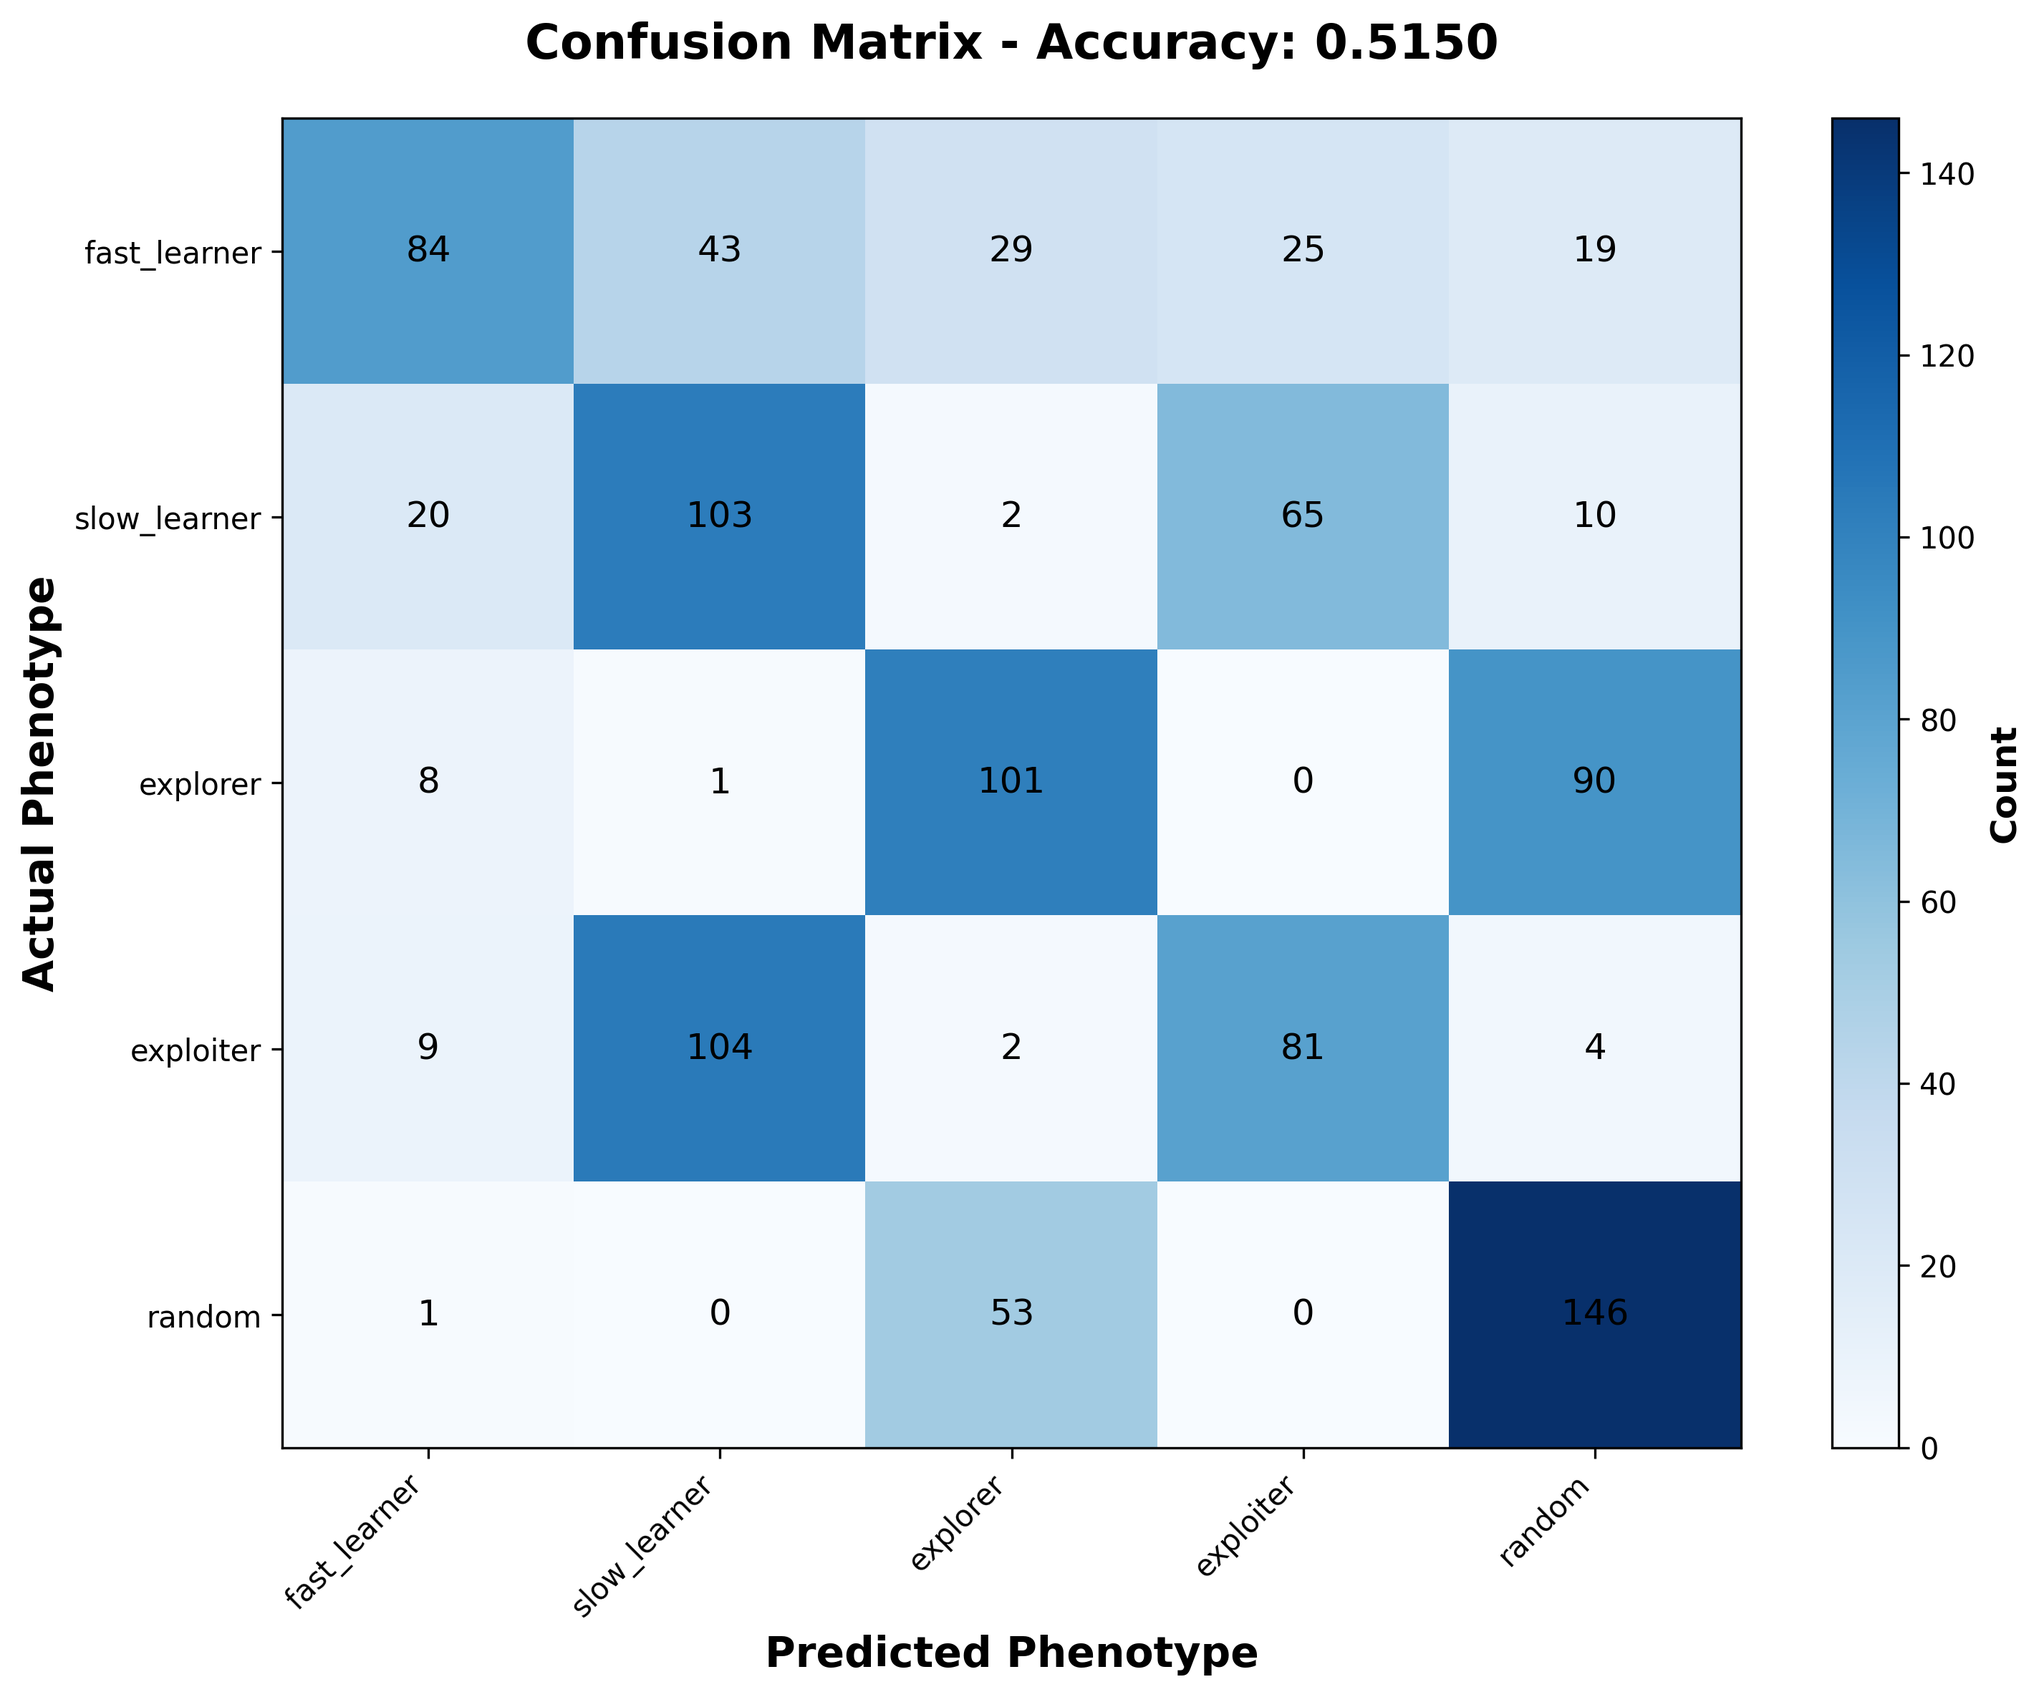
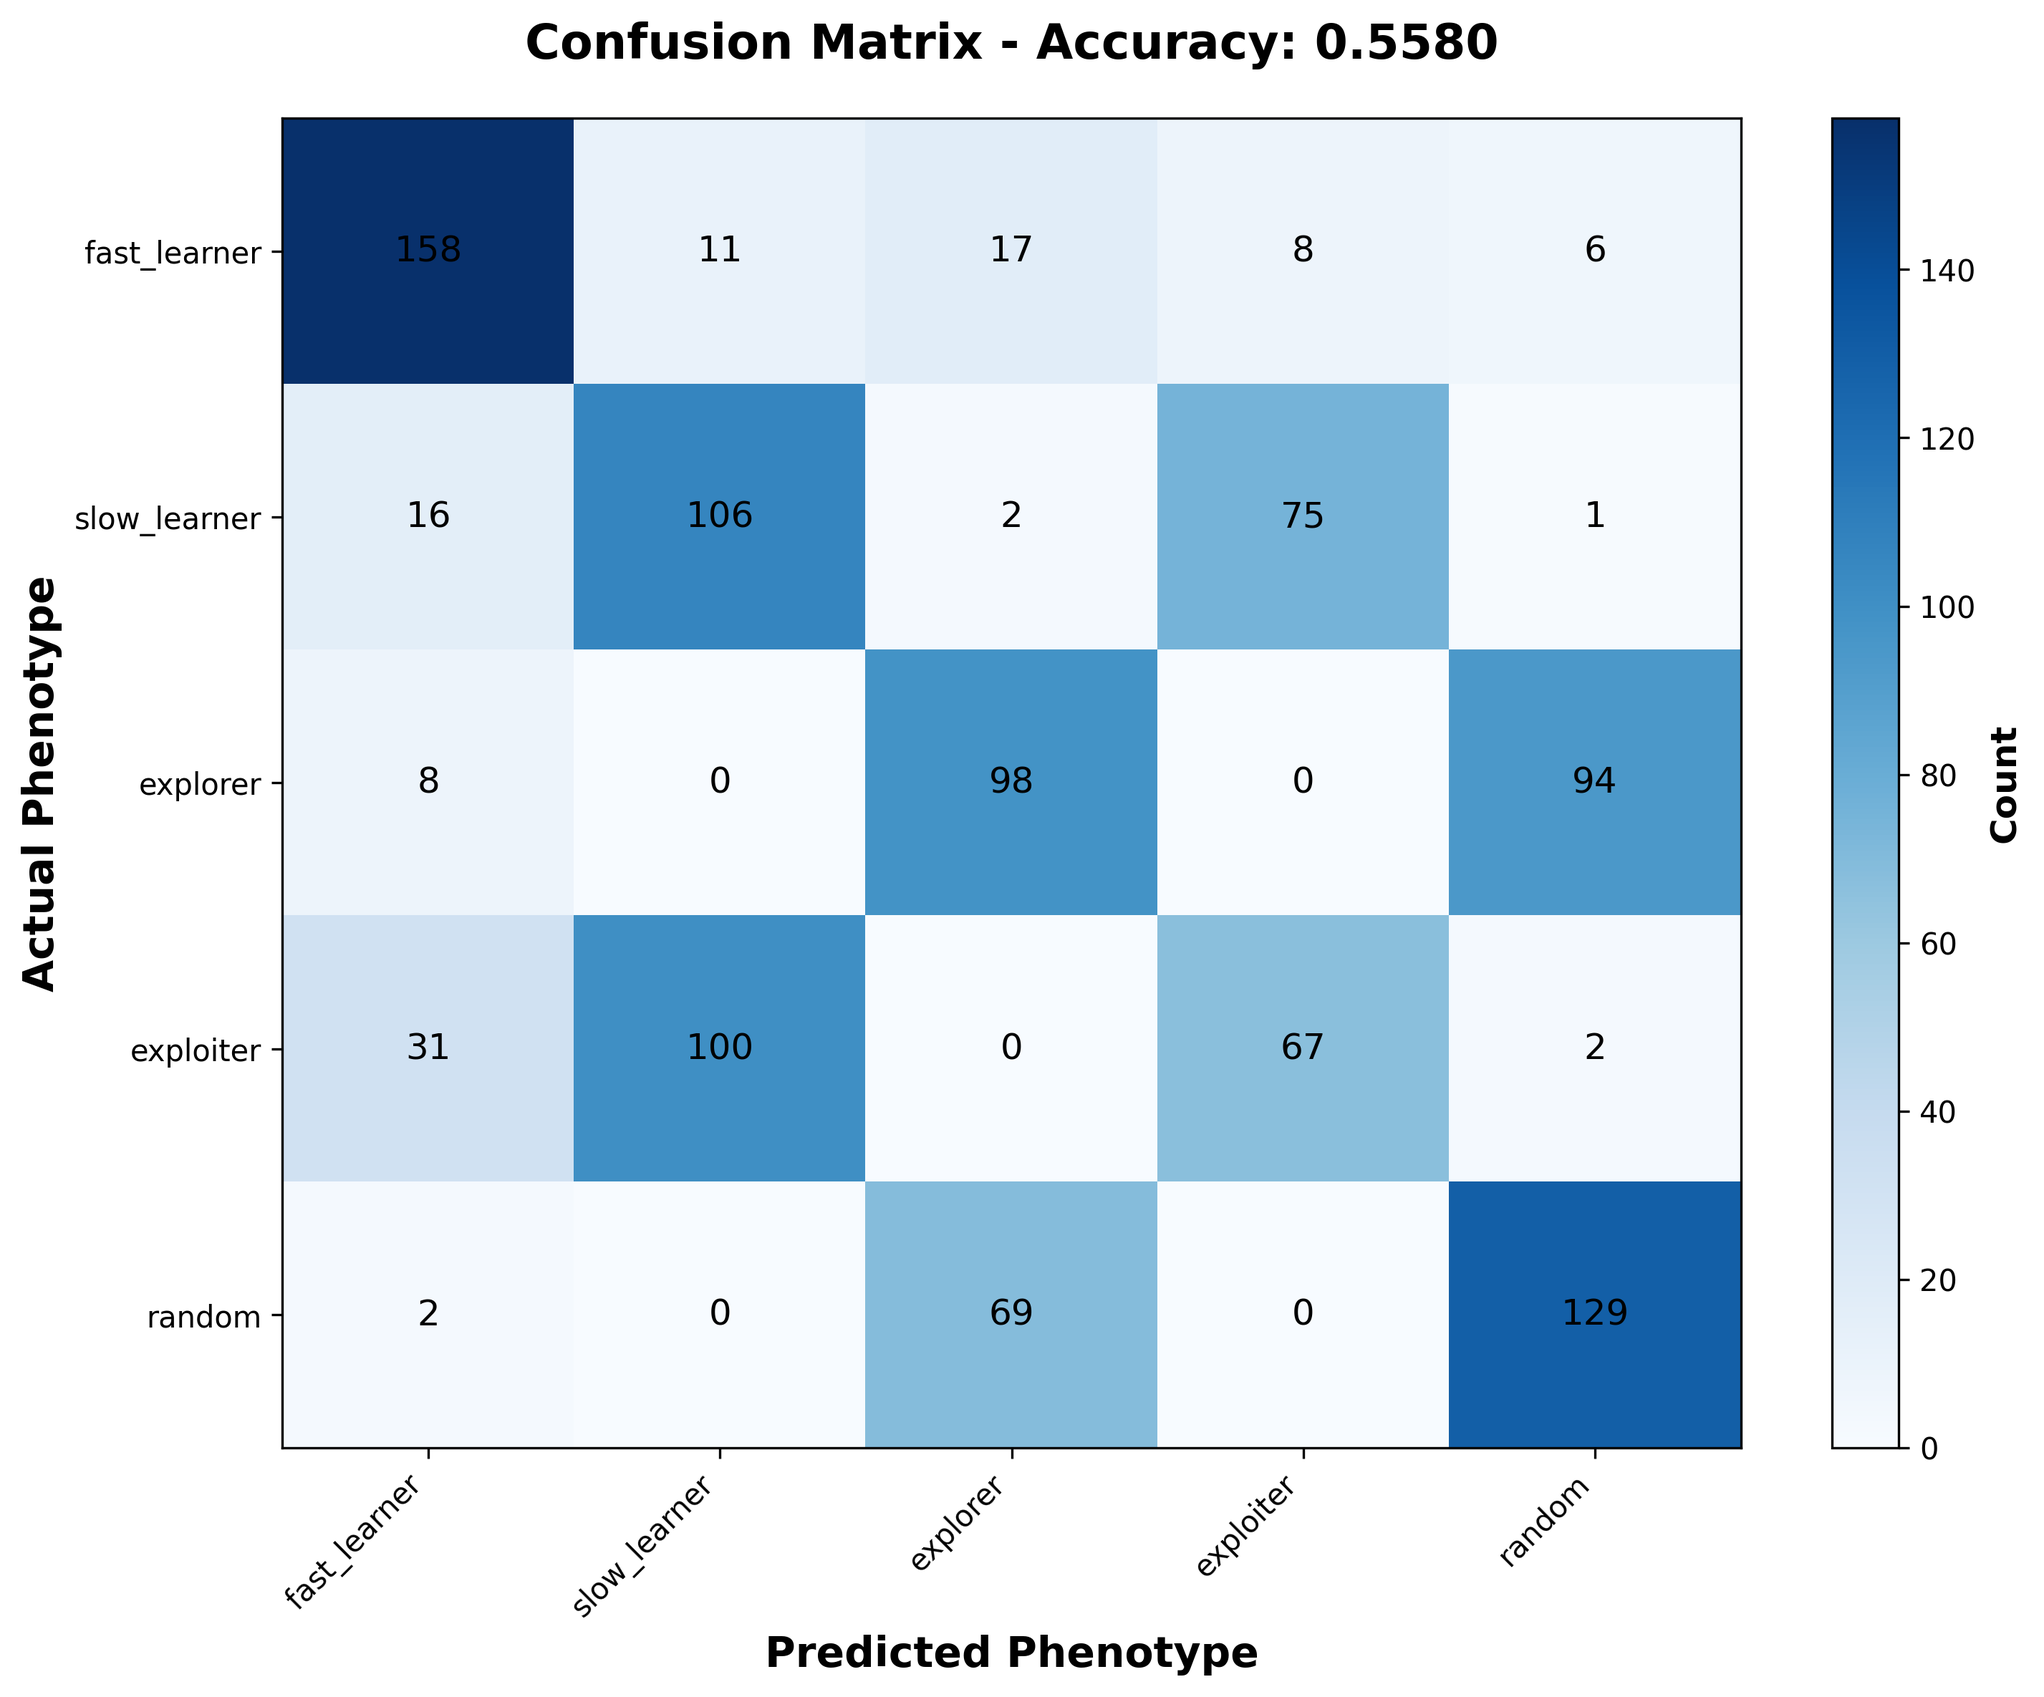
Add enhanced bandit features and update classification scripts to use enhanced datasets

diff --git a/bandit_enhanced.py b/bandit_enhanced.py
@@ -1,0 +1,309 @@
+import numpy as np
+import pandas as pd
+import os
+
+class TwoArmedBandit:
+    def __init__(self, p=[0.7, 0.3]):
+        if len(p) != 2:
+            raise ValueError("Reward probability list 'p' must contain exactly two values.")
+        self.p = np.array(p)
+
+    def pull(self, action):
+        return np.random.binomial(1, self.p[action])
+
+class QLearningAgent:
+    def __init__(self, alpha, temperature, n_actions=2):
+        self.alpha = alpha
+        self.temperature = temperature
+        self.n_actions = n_actions
+        self.Q = np.zeros(n_actions)
+        
+        # Enhanced tracking for behavioral analysis
+        self.action_history = []
+        self.reward_history = []
+        self.consecutive_actions = 0
+        self.last_action = None
+        self.total_rewards = 0
+        self.action_counts = np.zeros(n_actions)
+        self.successful_pulls = np.zeros(n_actions)
+        self.trial_count = 0
+        
+        # Advanced behavioral metrics
+        self.action_switches = 0
+        self.reward_streak = 0
+        self.loss_streak = 0
+        self.max_reward_streak = 0
+        self.max_loss_streak = 0
+        self.early_performance = 0  # First 10 trials
+        self.mid_performance = 0    # Trials 10-50
+        self.late_performance = 0   # Last 10 trials
+        self.performance_trend = 0
+        self.exploration_rate = 0
+        self.exploitation_rate = 0
+
+    def choose_action(self):
+        if self.temperature == 0:
+            best_actions = np.where(self.Q == np.max(self.Q))[0]
+            return np.random.choice(best_actions)
+        
+        q_stabilized = self.Q - np.max(self.Q)
+        exp_q = np.exp(q_stabilized / self.temperature)
+        probs = exp_q / np.sum(exp_q)
+        
+        return np.random.choice(self.n_actions, p=probs)
+
+    def update(self, action, reward):
+        old_q_value = self.Q[action]
+        td_error = reward - old_q_value
+        self.Q[action] = old_q_value + self.alpha * td_error
+        
+        # Update basic tracking
+        self.action_history.append(action)
+        self.reward_history.append(reward)
+        self.total_rewards += reward
+        self.action_counts[action] += 1
+        self.successful_pulls[action] += reward
+        self.trial_count += 1
+        
+        # Track consecutive actions
+        if self.last_action == action:
+            self.consecutive_actions += 1
+        else:
+            self.consecutive_actions = 1
+            self.action_switches += 1
+        self.last_action = action
+        
+        # Track reward streaks
+        if reward == 1:
+            self.reward_streak += 1
+            self.loss_streak = 0
+            self.max_reward_streak = max(self.max_reward_streak, self.reward_streak)
+        else:
+            self.loss_streak += 1
+            self.reward_streak = 0
+            self.max_loss_streak = max(self.max_loss_streak, self.loss_streak)
+        
+        # Update performance phases
+        if self.trial_count == 10:
+            self.early_performance = np.mean(self.reward_history[:10])
+        elif self.trial_count == 50:
+            self.mid_performance = np.mean(self.reward_history[10:50])
+        elif self.trial_count >= 140:
+            self.late_performance = np.mean(self.reward_history[-10:])
+            if self.trial_count >= 50:
+                self.performance_trend = self.late_performance - self.early_performance
+        
+        # Calculate exploration vs exploitation
+        if self.trial_count >= 20:
+            recent_actions = self.action_history[-20:]
+            unique_actions = len(set(recent_actions))
+            self.exploration_rate = unique_actions / 2.0  # Normalized to [0,1]
+            self.exploitation_rate = 1 - self.exploration_rate
+        
+        return td_error
+
+    def get_internal_states(self, td_error):
+        return {
+            'q_value_0': self.Q[0],
+            'q_value_1': self.Q[1],
+            'td_error': td_error,
+        }
+    
+    def get_enhanced_observable_features(self):
+        """Get sophisticated observable features for classification"""
+        if self.trial_count == 0:
+            return {}
+        
+        # Basic ratios
+        action_0_ratio = self.action_counts[0] / max(1, self.trial_count)
+        action_1_ratio = self.action_counts[1] / max(1, self.trial_count)
+        reward_rate = self.total_rewards / max(1, self.trial_count)
+        
+        # Success rates per action
+        action_0_success_rate = self.successful_pulls[0] / max(1, self.action_counts[0])
+        action_1_success_rate = self.successful_pulls[1] / max(1, self.action_counts[1])
+        
+        # Behavioral consistency
+        consecutive_action_ratio = self.consecutive_actions / max(1, self.trial_count)
+        action_switch_rate = self.action_switches / max(1, self.trial_count - 1)
+        action_consistency = 1 - action_switch_rate
+        
+        # Streak metrics
+        reward_streak_ratio = self.reward_streak / max(1, self.trial_count)
+        max_reward_streak_ratio = self.max_reward_streak / max(1, self.trial_count)
+        max_loss_streak_ratio = self.max_loss_streak / max(1, self.trial_count)
+        
+        # Performance phases
+        early_perf = self.early_performance if self.trial_count >= 10 else 0
+        mid_perf = self.mid_performance if self.trial_count >= 50 else 0
+        late_perf = self.late_performance if self.trial_count >= 140 else 0
+        perf_trend = self.performance_trend if self.trial_count >= 140 else 0
+        
+        # Exploration metrics
+        exploration_rate = self.exploration_rate if self.trial_count >= 20 else 0
+        exploitation_rate = self.exploitation_rate if self.trial_count >= 20 else 0
+        
+        # Advanced behavioral patterns
+        if self.trial_count >= 30:
+            recent_rewards = self.reward_history[-30:]
+            recent_actions = self.action_history[-30:]
+            
+            # Reward volatility
+            reward_volatility = np.std(recent_rewards) if len(recent_rewards) > 1 else 0
+            
+            # Action-reward correlation
+            if len(recent_actions) > 1:
+                action_reward_corr = np.corrcoef(recent_actions, recent_rewards)[0, 1]
+                action_reward_corr = 0 if np.isnan(action_reward_corr) else action_reward_corr
+            else:
+                action_reward_corr = 0
+            
+            # Learning curve analysis
+            first_third = np.mean(recent_rewards[:10]) if len(recent_rewards) >= 10 else 0
+            last_third = np.mean(recent_rewards[-10:]) if len(recent_rewards) >= 10 else 0
+            learning_improvement = last_third - first_third
+        else:
+            reward_volatility = 0
+            action_reward_corr = 0
+            learning_improvement = 0
+        
+        return {
+            # Basic metrics
+            'action_0_ratio': action_0_ratio,
+            'action_1_ratio': action_1_ratio,
+            'reward_rate': reward_rate,
+            'action_0_success_rate': action_0_success_rate,
+            'action_1_success_rate': action_1_success_rate,
+            
+            # Behavioral consistency
+            'consecutive_action_ratio': consecutive_action_ratio,
+            'action_switch_rate': action_switch_rate,
+            'action_consistency': action_consistency,
+            
+            # Streak analysis
+            'reward_streak_ratio': reward_streak_ratio,
+            'max_reward_streak_ratio': max_reward_streak_ratio,
+            'max_loss_streak_ratio': max_loss_streak_ratio,
+            
+            # Performance phases
+            'early_performance': early_perf,
+            'mid_performance': mid_perf,
+            'late_performance': late_perf,
+            'performance_trend': perf_trend,
+            
+            # Exploration metrics
+            'exploration_rate': exploration_rate,
+            'exploitation_rate': exploitation_rate,
+            
+            # Advanced patterns
+            'reward_volatility': reward_volatility,
+            'action_reward_correlation': action_reward_corr,
+            'learning_improvement': learning_improvement,
+            
+            # Summary stats
+            'total_rewards': self.total_rewards,
+            'trial_count': self.trial_count
+        }
+
+    def reset(self):
+        self.Q = np.zeros(self.n_actions)
+        self.action_history = []
+        self.reward_history = []
+        self.consecutive_actions = 0
+        self.last_action = None
+        self.total_rewards = 0
+        self.action_counts = np.zeros(self.n_actions)
+        self.successful_pulls = np.zeros(self.n_actions)
+        self.trial_count = 0
+        
+        # Reset enhanced metrics
+        self.action_switches = 0
+        self.reward_streak = 0
+        self.loss_streak = 0
+        self.max_reward_streak = 0
+        self.max_loss_streak = 0
+        self.early_performance = 0
+        self.mid_performance = 0
+        self.late_performance = 0
+        self.performance_trend = 0
+        self.exploration_rate = 0
+        self.exploitation_rate = 0
+
+class PhenotypeExperiment:
+    def __init__(self, n_agents=1000, n_trials=150, random_seed=42):
+        self.n_agents = n_agents
+        self.n_trials = n_trials
+        self.phenotypes = {
+            'fast_learner': {'alpha': 0.8, 'temperature': 0.1},
+            'slow_learner': {'alpha': 0.2, 'temperature': 0.1},
+            'explorer': {'alpha': 0.5, 'temperature': 1.0},
+            'exploiter': {'alpha': 0.5, 'temperature': 0.05},
+            'random': {'alpha': 0.1, 'temperature': 5.0}
+        }
+        if random_seed is not None:
+            np.random.seed(random_seed)
+
+    def _sample_phenotypes(self):
+        phenotype_keys = list(self.phenotypes.keys())
+        n_repeats = int(np.ceil(self.n_agents / len(phenotype_keys)))
+        phenotype_list = np.repeat(phenotype_keys, n_repeats)[:self.n_agents]
+        np.random.shuffle(phenotype_list)
+        return phenotype_list
+
+    def run_experiment(self, include_internal_states=False):
+        agent_phenotypes = self._sample_phenotypes()
+        all_trials_data = []
+
+        for agent_id, phenotype in enumerate(agent_phenotypes):
+            params = self.phenotypes[phenotype]
+            agent = QLearningAgent(alpha=params['alpha'], temperature=params['temperature'])
+            bandit = TwoArmedBandit()
+
+            for trial in range(self.n_trials):
+                action = agent.choose_action()
+                reward = bandit.pull(action)
+                td_error = agent.update(action, reward)
+
+                trial_data = {
+                    'agent_id': agent_id,
+                    'trial': trial,
+                    'phenotype': phenotype,
+                    'action': action,
+                    'reward': reward
+                }
+
+                if include_internal_states:
+                    internal_states = agent.get_internal_states(td_error)
+                    trial_data.update(internal_states)
+                
+                # Always include enhanced observable features
+                enhanced_features = agent.get_enhanced_observable_features()
+                trial_data.update(enhanced_features)
+
+                all_trials_data.append(trial_data)
+        
+        return pd.DataFrame(all_trials_data)
+
+if __name__ == "__main__":
+    print("Enhanced Bandit Experiment with Sophisticated Observable Features")
+    print("=" * 70)
+    
+    train_experiment = PhenotypeExperiment(n_agents=1000, n_trials=150, random_seed=456)
+    np.random.seed(456)
+    train_df = train_experiment.run_experiment(include_internal_states=False)
+    
+    test_experiment = PhenotypeExperiment(n_agents=1000, n_trials=150, random_seed=434)
+    np.random.seed(434)
+    test_df = test_experiment.run_experiment(include_internal_states=False)
+    
+    output_dir = "datasets"
+    os.makedirs(output_dir, exist_ok=True)
+    
+    # Save enhanced datasets
+    train_df.to_csv(os.path.join(output_dir, "enhanced_dataset_train_1000.csv"), index=False)
+    test_df.to_csv(os.path.join(output_dir, "enhanced_dataset_test_1000.csv"), index=False)
+    
+    print(f"Enhanced datasets saved:")
+    print(f"  Training: {len(train_df)} trials, {len(train_df.columns)} features")
+    print(f"  Testing: {len(test_df)} trials, {len(test_df.columns)} features")
+    print(f"  Features: {list(train_df.columns)}")

diff --git a/bandit.py b/bandit.py
@@ -17,6 +17,15 @@ class QLearningAgent:
         self.temperature = temperature
         self.n_actions = n_actions
         self.Q = np.zeros(n_actions)
+        
+        # Add tracking for additional observable features
+       # self.consecutive_actions = 0
+       # self.total_rewards = 0
+       # self.action_counts = np.zeros(n_actions)
+       # self.win_streak = 0
+       # self.trial_index = 0    
+
+
 
     def choose_action(self):
         if self.temperature == 0:

diff --git a/rf_classification_raw.py b/rf_classification_raw.py
@@ -26,7 +26,7 @@ def load_train_test_datasets():
 
 
 
-def prepare_sliding_window_data(data, window_size=30):
+def prepare_sliding_window_data(data, window_size=100):
     """
     Prepare data using sliding window approach to avoid future information leakage.
     Only uses early trials (0 to window_size-1) to predict phenotype.
